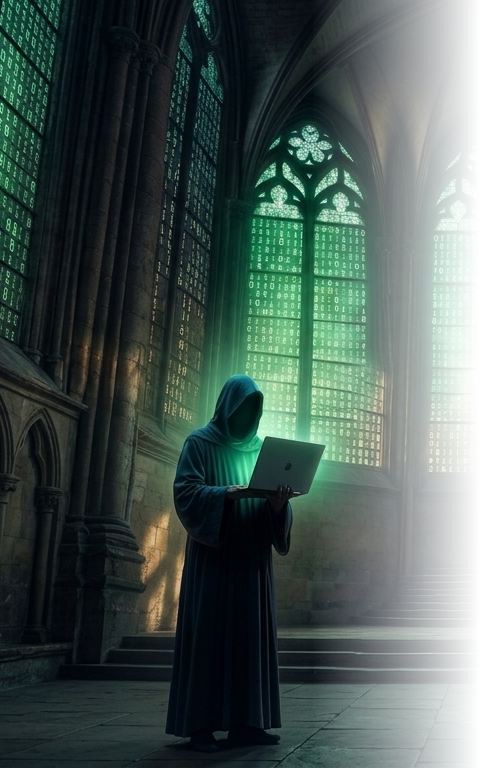
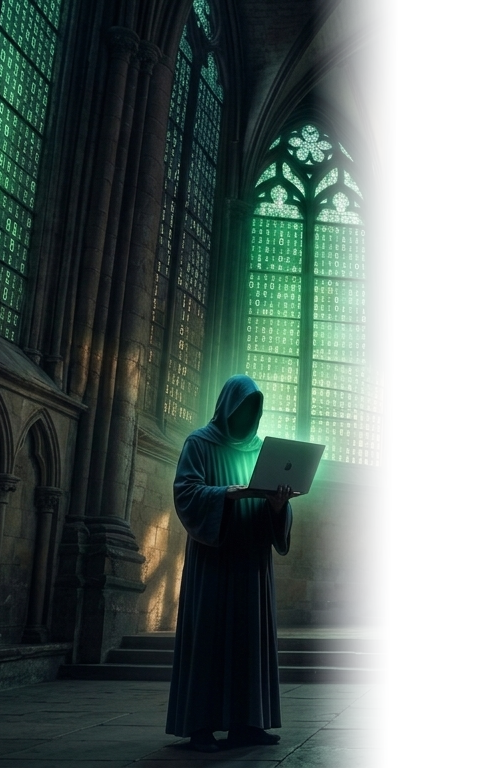
+WCAG AA: alt text

Changed region(s): [[0.625, 0.0, 0.9688, 1.0]]

diff --git a/frontend/src/components/ui/Avatar.tsx b/frontend/src/components/ui/Avatar.tsx
@@ -7,13 +7,13 @@ interface AvatarProps {
 // No more letter-in-a-circle fallback — every user gets a real default
 // avatar image whenever avatarUrl is null (either they never uploaded
 // one, or they used "Eliminar avatar" to go back to the default).
-export function Avatar({ avatarUrl, size = 96 }: AvatarProps) {
+export function Avatar({ avatarUrl, fallbackText, size = 96 }: AvatarProps) {
   const style = { width: size, height: size };
 
   return (
     <img
       src={avatarUrl ?? '/default-avatar.png'}
-      alt="Avatar"
+      alt={fallbackText}
       style={style}
       className="rounded-full object-cover border-2 border-gold-500"
     />

diff --git a/docs/WCAG-AA-alt-text.md b/docs/WCAG-AA-alt-text.md
@@ -1,0 +1,52 @@
+# Texto alternativo para contenido no textual (WCAG 2.1 AA — 1.1.1)
+
+Cuarto bloque de trabajo del Major de accesibilidad, tras la navegación por teclado, las etiquetas ARIA de iconos, y las regiones "en vivo".
+
+## Qué exige el criterio
+
+Todo contenido no textual (imágenes, iconos gráficos, etc.) debe tener una alternativa textual equivalente: una imagen con significado necesita un alt que lo describa; una imagen puramente decorativa necesita alt="" para que el lector de pantalla la ignore por completo en vez de intentar describir algo sin valor informativo.
+
+## Metodología: revisión guiada por búsqueda, no por memoria
+
+En vez de repasar archivo por archivo de memoria, se usó una búsqueda sistemática en el propio proyecto para localizar cada fuente posible de contenido no textual:
+
+```bash
+grep -rn "<img" frontend/src --include="*.tsx"
+grep -rn "backgroundImage" frontend/src --include="*.tsx"
+grep -rn "<svg" frontend/src --include="*.tsx"
+```
+
+## Lo que se encontró y cómo se resolvió cada caso
+
+### Etiquetas img (cinco en total)
+
+- PageContainer.tsx (los dos monjes decorativos a los lados): ya tenían alt="" aria-hidden="true" — correcto, doble protección para una imagen puramente ornamental.
+- RandomArticles.tsx (el pergamino del widget): alt="" — correcto también, pero por otra razón: el título del artículo ya aparece como texto visible justo al lado, dentro del mismo enlace — repetirlo en el alt sería redundante.
+- ChatPage.tsx (adjuntos de imagen en el chat): alt={message.attachmentName ?? t('chat.attachment')} — ya usaba el nombre real del archivo cuando existía, con una traducción genérica de respaldo.
+- Avatar.tsx — este sí tenía un problema real: el alt estaba fijado a la cadena literal "Avatar", igual para cualquier persona. Con varias fotos de perfil en pantalla a la vez (la lista de amigos, los miembros de un canal), un lector de pantalla anunciaría "Avatar", "Avatar", "Avatar"... sin forma de distinguir de quién es cada una.
+
+  Revisando el componente se descubrió la causa: recibía una prop fallbackText (el nombre o email de la persona) que ya se pasaba desde todos los sitios donde se usa el componente, pero el propio componente nunca la usaba — un resto de una versión anterior (cuando fallbackText servía para mostrar una inicial dentro de un círculo, antes de introducir el avatar por defecto). Se corrigió para usarla como alt:
+
+  ```tsx
+  export function Avatar({ avatarUrl, fallbackText, size = 96 }: AvatarProps) {
+    return <img src={avatarUrl ?? '/default-avatar.png'} alt={fallbackText} ... />;
+  }
+  ```
+
+  Al ser un componente compartido, la corrección se propaga automáticamente a cada lugar donde se usa, sin tocar ninguna otra página.
+
+### Imagen de fondo por CSS (background-image)
+
+Un único caso: la catedral de fondo en LandingPage. A diferencia de una etiqueta img (que el navegador expone por defecto al árbol de accesibilidad, y por tanto necesita un alt="" explícito para ocultarla si es decorativa), una imagen de fondo definida por CSS es invisible para un lector de pantalla desde el principio — no hace falta ninguna marca adicional para lograr el mismo resultado que buscábamos con alt="". Se confirmó además que el contenido es puramente atmosférico: todo el significado de la página ya está transmitido por el texto del manifiesto, no se pierde ninguna información al no describir la imagen.
+
+### Iconos SVG
+
+Ninguno en todo el proyecto — los iconos se implementan con caracteres emoji (✎, ✕, 📎, 🔔, ✉), que son texto Unicode, no "contenido no textual" en el sentido de este criterio. Su accesibilidad ya se resolvió por otra vía (las etiquetas aria-label en los botones que los contienen).
+
+## Estado
+
+Con la revisión de las tres categorías completa y sin más resultados pendientes, el criterio 1.1.1 se considera cerrado.
+
+## Qué queda pendiente del Major de WCAG 2.1 AA
+
+Jerarquía de encabezados, y la verificación real con una herramienta de auditoría (Lighthouse o axe DevTools) contra la aplicación en funcionamiento.

diff --git a/README.md b/README.md
@@ -418,6 +418,7 @@ Sin esto, Prisma lanzaba un `PrismaClientValidationError` (500 Internal Server E
 [WCAG AA: keyboard navigation](./docs/WCAG-AA-keyboard-navigation.md)
 [WCAG AA: aria-labels](./docs/WCAG-AA-aria-labels.md)
 [WCAG AA: aria-live](./docs/WCAG-AA-aria-live.md)
+[WCAG AA: alt text](./docs/WCAG-AA-alt-text.md)
 
 
 
